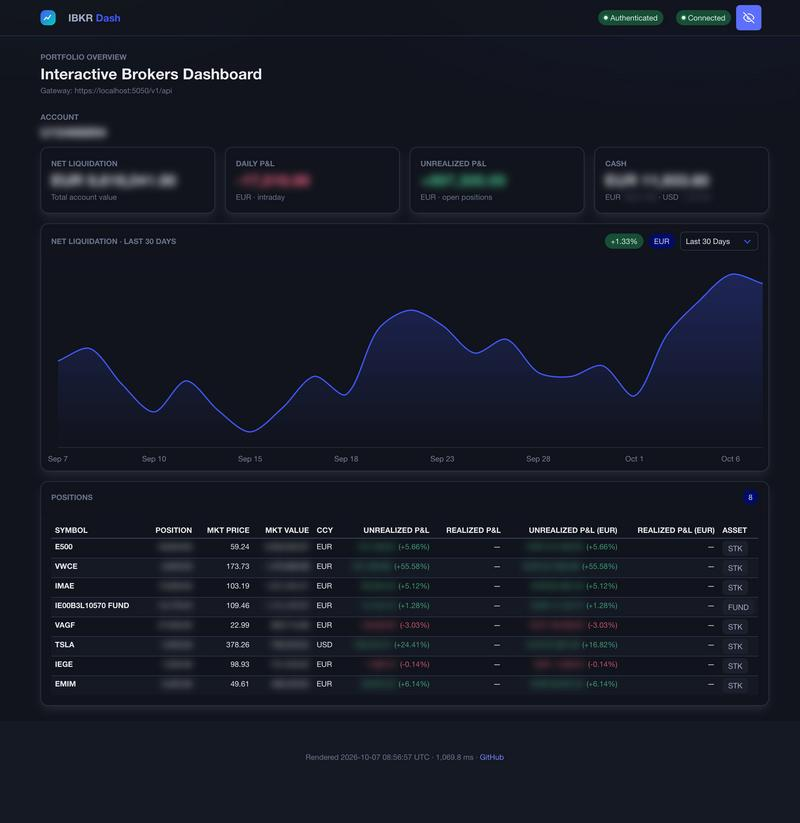
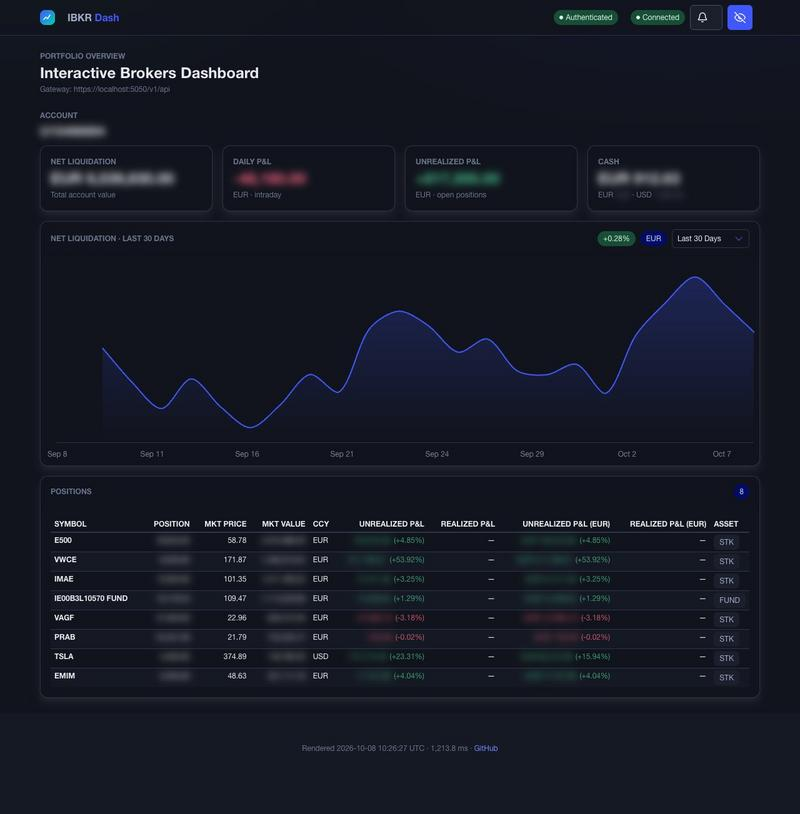
feat(ui): add IBKR FYI notifications bell

diff --git a/index.php b/index.php
@@ -10,6 +10,11 @@ $pageStart = microtime(true);
 loadEnv(__DIR__ . '/.env');
 requireBasicAuthIfConfigured();
 
+if (isset($_GET['notifications'])) {
+    require_once __DIR__ . '/notifications.inc.php';
+    handleNotificationsRequest();
+}
+
 // Always fetch live session status so the gateway badges never lag behind.
 $auth = apiRequest('GET', '/iserver/auth/status', null, true);
 $authData = $auth['json'] ?? [];
@@ -272,6 +277,44 @@ foreach ($accountsView as $index => $account) {
         #privacyToggle.is-link .eye-closed {
             display: inline;
         }
+        .notifications { position: relative; }
+        .header-actions { gap: 0.5rem; }
+        .notifications [hidden] { display: none !important; }
+        .notification-unread {
+            position: absolute;
+            top: 6px;
+            right: 6px;
+            width: 7px;
+            height: 7px;
+            border-radius: 50%;
+            background: var(--bulma-danger);
+        }
+        .notifications-panel {
+            position: absolute;
+            top: calc(100% + 10px);
+            right: 0;
+            width: min(390px, calc(100vw - 24px));
+            max-height: min(560px, calc(100dvh - 90px));
+            overflow-y: auto;
+            border: 1px solid var(--bulma-border);
+            border-radius: 12px;
+            background: var(--bulma-scheme-main);
+            box-shadow: 0 12px 36px #0005;
+        }
+        .notification-message { border-top: 1px solid var(--bulma-border-weak); }
+        .notification-message summary { cursor: pointer; padding: 14px 16px; }
+        .notification-message summary:focus-visible { outline: 2px solid var(--bulma-link); outline-offset: -3px; }
+        .notification-message:not(.is-read) summary { font-weight: 600; }
+        .notification-message:not(.is-read) summary::marker { color: var(--bulma-link); }
+        .notification-message time { display: block; margin-top: 4px; font-size: 0.7rem; font-weight: 400; color: var(--bulma-text-weak); }
+        .notification-body { padding: 0 16px 16px; white-space: pre-wrap; overflow-wrap: anywhere; }
+        .notification-message summary { overflow-wrap: anywhere; }
+        @media screen and (max-width: 768px) {
+            .notifications-panel { position: fixed; top: 62px; right: 12px; }
+            .gateway-status { gap: 0.4rem; }
+            .gateway-status .tag { font-size: 0.65rem; margin-right: 0 !important; }
+            .header-actions .button { width: 36px; height: 36px; padding: 0; }
+        }
     </style>
 </head>
 <body>
@@ -286,7 +329,7 @@ foreach ($accountsView as $index => $account) {
                 </span>
                 <span class="has-text-weight-bold ml-2 is-hidden-mobile">IBKR&nbsp;<span class="has-text-link">Dash</span></span>
             </span>
-            <div class="navbar-item ml-auto px-2" title="<?= htmlspecialchars($gatewayHover) ?>">
+            <div class="navbar-item gateway-status ml-auto px-2" title="<?= htmlspecialchars($gatewayHover) ?>">
                 <?php if ($auth['error']): ?>
                     <span class="tag is-rounded has-background-danger-soft has-text-danger-bold"><span class="dot mr-1"></span>Gateway Error</span>
                 <?php else: ?>
@@ -294,7 +337,25 @@ foreach ($accountsView as $index => $account) {
                     <span class="tag is-rounded has-background-<?= $connected ? 'success' : 'warning' ?>-soft has-text-<?= $connected ? 'success' : 'warning' ?>-bold"><span class="dot mr-1"></span><?= $connected ? 'Connected' : 'Disconnected' ?></span>
                 <?php endif; ?>
             </div>
-            <div class="navbar-item pl-0">
+            <div class="navbar-item header-actions pl-0">
+                <div class="notifications" id="notifications">
+                    <button class="button" id="notificationsToggle" type="button" aria-expanded="false" aria-controls="notificationsPanel" aria-label="Notifications" title="Notifications">
+                        <span class="icon">
+                            <svg width="18" height="18" viewBox="0 0 24 24" fill="none" stroke="currentColor" stroke-width="2" stroke-linecap="round" stroke-linejoin="round" aria-hidden="true">
+                                <path d="M18 8a6 6 0 0 0-12 0c0 7-3 7-3 9h18c0-2-3-2-3-9M10 21h4"/>
+                            </svg>
+                        </span>
+                        <span class="notification-unread" id="notificationsUnread" hidden></span>
+                    </button>
+                    <section class="notifications-panel" id="notificationsPanel" aria-label="IBKR notifications" hidden>
+                        <div class="px-4 py-3">
+                            <p class="has-text-weight-semibold">Notifications</p>
+                            <p class="is-size-7 has-text-grey">Latest 10 IBKR FYIs</p>
+                        </div>
+                        <p class="px-4 pb-3 is-size-7" id="notificationsStatus" role="status">Loading notifications…</p>
+                        <div id="notificationsList" class="is-size-7"></div>
+                    </section>
+                </div>
                 <button class="button" id="privacyToggle" type="button" aria-pressed="false" aria-label="Blur sensitive amounts" title="Blur sensitive amounts">
                     <span class="icon">
                     <svg class="eye-open" width="18" height="18" viewBox="0 0 24 24" fill="none" stroke="currentColor" stroke-width="2" stroke-linecap="round" stroke-linejoin="round" aria-hidden="true">
@@ -600,6 +661,125 @@ foreach ($accountsView as $index => $account) {
 </footer>
 
 <script>
+(() => {
+    const root = document.getElementById('notifications');
+    const toggle = document.getElementById('notificationsToggle');
+    const panel = document.getElementById('notificationsPanel');
+    const status = document.getElementById('notificationsStatus');
+    const list = document.getElementById('notificationsList');
+    const unread = document.getElementById('notificationsUnread');
+    const endpoint = new URL(window.location.href);
+    endpoint.search = '?notifications=1';
+    let messages = [];
+    let loading = false;
+    let lastFetch = 0;
+    let pending = 0;
+
+    const updateBadge = () => {
+        const hasUnread = messages.some(message => !message.read);
+        unread.hidden = !hasUnread;
+        toggle.setAttribute('aria-label', hasUnread ? 'Notifications — unread messages' : 'Notifications');
+        toggle.title = hasUnread ? 'Unread messages among the latest 10 FYIs' : 'Notifications';
+    };
+    const request = async (options = {}) => {
+        const response = await fetch(endpoint, {cache: 'no-store', ...options});
+        const data = await response.json();
+        if (!response.ok) throw new Error(data.error || 'Notifications are unavailable.');
+        return data;
+    };
+    const render = () => {
+        list.replaceChildren();
+        for (const message of messages) {
+            const details = document.createElement('details');
+            details.className = 'notification-message';
+            details.classList.toggle('is-read', message.read);
+            const summary = document.createElement('summary');
+            const subject = document.createElement('span');
+            subject.className = 'sensitive';
+            subject.textContent = message.subject || 'IBKR notification';
+            summary.append(subject);
+            if (message.timestamp !== null) {
+                const date = new Date(message.timestamp * 1000);
+                if (!Number.isNaN(date.getTime())) {
+                    const time = document.createElement('time');
+                    time.dateTime = date.toISOString();
+                    time.textContent = date.toLocaleString(undefined, {dateStyle: 'medium', timeStyle: 'short'});
+                    summary.append(time);
+                }
+            }
+            const body = document.createElement('div');
+            body.className = 'notification-body sensitive';
+            body.textContent = message.body;
+            const error = document.createElement('p');
+            error.className = 'px-4 pb-3 has-text-danger';
+            error.setAttribute('role', 'alert');
+            error.hidden = true;
+            details.append(summary, body, error);
+            let marking = false;
+            details.addEventListener('toggle', async () => {
+                if (!details.open || message.read || marking) return;
+                marking = true;
+                pending++;
+                error.hidden = true;
+                try {
+                    await request({
+                        method: 'POST',
+                        headers: {'Content-Type': 'application/json', 'X-IBKR-Notifications': '1'},
+                        body: JSON.stringify({id: message.id}),
+                    });
+                    message.read = true;
+                    details.classList.add('is-read');
+                    updateBadge();
+                } catch (failure) {
+                    error.textContent = failure.message;
+                    error.hidden = false;
+                } finally {
+                    marking = false;
+                    pending--;
+                }
+            });
+            list.append(details);
+        }
+        status.textContent = messages.length ? '' : 'No recent notifications.';
+        status.hidden = messages.length > 0;
+        updateBadge();
+    };
+    const refresh = async () => {
+        if (loading || pending || list.querySelector('details[open]') || Date.now() - lastFetch < 5000) return;
+        loading = true;
+        lastFetch = Date.now();
+        try {
+            const data = await request();
+            // A message may have been opened while this fetch was in flight.
+            if (pending || list.querySelector('details[open]')) return;
+            messages = data.notifications;
+            render();
+        } catch (failure) {
+            status.textContent = messages.length ? 'Could not refresh notifications. Showing the previous results.' : failure.message;
+            status.hidden = false;
+        } finally {
+            loading = false;
+        }
+    };
+    const close = () => {
+        panel.hidden = true;
+        toggle.setAttribute('aria-expanded', 'false');
+        list.querySelectorAll('details[open]').forEach(details => { details.open = false; });
+    };
+    toggle.addEventListener('click', () => {
+        if (!panel.hidden) return close();
+        panel.hidden = false;
+        toggle.setAttribute('aria-expanded', 'true');
+        refresh();
+    });
+    document.addEventListener('click', event => { if (!root.contains(event.target)) close(); });
+    document.addEventListener('keydown', event => {
+        if (event.key === 'Escape' && !panel.hidden) { close(); toggle.focus(); }
+    });
+    refresh();
+    setInterval(() => { if (!document.hidden) refresh(); }, 60000);
+})();
+
 const chartConfigs = <?= json_encode($chartConfigs, JSON_UNESCAPED_SLASHES) ?>;
 // Resolve Bulma CSS variables to concrete colors for Chart.js (canvas can't use var()).
 const resolveColor = (name) => {

diff --git a/notifications.inc.php b/notifications.inc.php
@@ -1,0 +1,77 @@
+<?php
+
+declare(strict_types=1);
+
+/** Render gateway HTML as plain text; never pass notification markup to the browser. */
+function notificationText(string $html): string
+{
+    $html = preg_replace('/<(script|style)\b[^>]*>.*?<\/\1>/is', '', $html) ?? '';
+    $html = preg_replace('/<\s*br\s*\/?\s*>|<\/(?:p|div|tr|li|h[1-6])\s*>/i', "\n", $html) ?? '';
+    return trim(html_entity_decode(strip_tags($html), ENT_QUOTES | ENT_HTML5, 'UTF-8'));
+}
+
+function notificationsResponse(int $status, array $body): never
+{
+    http_response_code($status);
+    header('Content-Type: application/json; charset=utf-8');
+    header('Cache-Control: no-store');
+    header('X-Content-Type-Options: nosniff');
+    echo json_encode($body, JSON_INVALID_UTF8_SUBSTITUTE);
+    exit;
+}
+
+function handleNotificationsRequest(): never
+{
+    $method = $_SERVER['REQUEST_METHOD'] ?? 'GET';
+    if ($method === 'GET') {
+        $response = apiRequest('GET', '/fyi/notifications?max=10', null, true);
+        $data = $response['json'];
+        if ($response['error'] || !is_array($data) || !array_is_list($data)) {
+            notificationsResponse(502, ['error' => 'Notifications are unavailable. Check your gateway connection.']);
+        }
+
+        $notifications = [];
+        foreach ($data as $item) {
+            if (!is_array($item) || !is_string($item['ID'] ?? null)
+                || !is_string($item['MS'] ?? null) || !is_string($item['MD'] ?? null)
+                || !in_array($item['R'] ?? null, [0, 1, '0', '1'], true)) {
+                notificationsResponse(502, ['error' => 'The gateway returned an unexpected notification format.']);
+            }
+            $notifications[] = [
+                'id' => $item['ID'],
+                'subject' => notificationText($item['MS']),
+                'body' => notificationText($item['MD']),
+                'read' => (int)$item['R'] === 1,
+                'timestamp' => is_numeric($item['D'] ?? null) ? (float)$item['D'] : null,
+            ];
+        }
+        usort($notifications, static fn(array $a, array $b): int => ($b['timestamp'] ?? 0) <=> ($a['timestamp'] ?? 0));
+        notificationsResponse(200, ['notifications' => $notifications]);
+    }
+
+    if ($method !== 'POST') {
+        header('Allow: GET, POST');
+        notificationsResponse(405, ['error' => 'Method not allowed.']);
+    }
+
+    // A custom header requires a same-origin request (no CORS is enabled),
+    // protecting the basic-authenticated mutation from cross-site forms.
+    if (($_SERVER['HTTP_X_IBKR_NOTIFICATIONS'] ?? '') !== '1'
+        || strtolower(trim(explode(';', $_SERVER['CONTENT_TYPE'] ?? '')[0])) !== 'application/json') {
+        notificationsResponse(403, ['error' => 'Invalid notification request.']);
+    }
+    $input = json_decode((string)file_get_contents('php://input'), true);
+    $id = is_array($input) ? ($input['id'] ?? null) : null;
+    if (!is_string($id) || preg_match('/^[a-zA-Z0-9_-]{1,128}$/D', $id) !== 1) {
+        notificationsResponse(400, ['error' => 'Invalid notification ID.']);
+    }
+
+    // The deployed gateway requires Content-Type and a non-empty JSON body.
+    $response = apiRequest('PUT', '/fyi/notifications/' . rawurlencode($id), (object)[], true);
+    $ack = $response['json'];
+    if ($response['error'] || !is_array($ack) || (string)($ack['V'] ?? '') !== '1'
+        || (string)($ack['P']['R'] ?? '') !== '1' || (string)($ack['P']['ID'] ?? '') !== $id) {
+        notificationsResponse(502, ['error' => 'Could not mark this message as read. Close and reopen it to retry.']);
+    }
+    notificationsResponse(200, ['id' => $id, 'read' => true]);
+}

diff --git a/functions.inc.php b/functions.inc.php
@@ -73,7 +73,7 @@ function gatewayBaseUrl(): string
 // throttles bursts and /iserver/marketdata/history allows 5 concurrent calls.
 const API_MAX_CONCURRENCY = 4;
 
-function apiRequest(string $method, string $path, ?array $payload = null, bool $bypassCache = false): array
+function apiRequest(string $method, string $path, array|object|null $payload = null, bool $bypassCache = false): array
 {
     return apiRequestMany(['request' => [$method, $path, $payload]], $bypassCache)['request'];
 }

diff --git a/api.md b/api.md
@@ -49,6 +49,11 @@ Servers listed in the spec: `https://localhost:5000` (Client Portal Gateway), `h
 - `POST /iserver/reply/{replyId}`: confirm or answer order replies.
 - Alerts: `POST /iserver/account/{accountId}/alert`, `GET /iserver/account/{accountId}/alerts`.
 
+## FYI Notifications
+- FYI notifications: `GET /fyi/notifications?max=10` (maximum 10; optional `id` for pagination). Fields: `ID`, `MS` (subject), `MD` (HTML body), `D` (Unix seconds), `R` (0 unread / 1 read).
+- Mark an FYI read: `PUT /fyi/notifications/{notificationId}` with an empty JSON object (`{}`) and `Content-Type: application/json`. The spec omits the body, but the deployed gateway rejects a bodyless request (411) and accepts `{}` (verified 2026-10-08). Verify response `V=1`, `P.R=1`, and matching `P.ID`. These endpoints serve FYIs, not the full Message Center inbox.
+- `GET /fyi/unreadnumber` returns `BN`; its spec documents a 423 if called more than once per five minutes. The dashboard uses unread state from the latest messages instead.
+
 ## Watchlists & Scanners
 - `GET /iserver/watchlists` and `GET|POST|DELETE /iserver/watchlist`.
 - `GET /iserver/scanner/params` and `POST /iserver/scanner/run`.

diff --git a/README.md b/README.md
@@ -7,6 +7,7 @@ A lightweight PHP dashboard for Interactive Brokers that shows:
 - Cash balances
 - Intraday P&L (partitioned)
 - Gateway status
+- Header notifications bell with the latest 10 IBKR FYIs; opening a message marks it as read in IBKR
 - Privacy toggle to blur sensitive amounts for sharing
 
 The app depends on the IBKR Client Portal Gateway. For long-lived sessions, [ibeam](https://github.com/Voyz/ibeam) is recommended.
@@ -82,3 +83,4 @@ php telegram.php
 - Base-currency P&L uses `/pa/transactions` (days param) for historical FX and cost basis.
 - Intraday P&L uses `/iserver/account/pnl/partitioned`; an empty first response (the gateway's initial subscription request) is retried once, bypassing the cache.
 - The dashboard assumes the Client Portal Gateway is already authenticated.
+- Notifications refresh every minute while the page is visible, and when opening the bell. The dot indicates unread messages among the latest 10 FYIs, not the full Message Center inbox. Read status updates only after the gateway acknowledges the change; notification calls bypass the API cache. Message text follows the privacy toggle.
